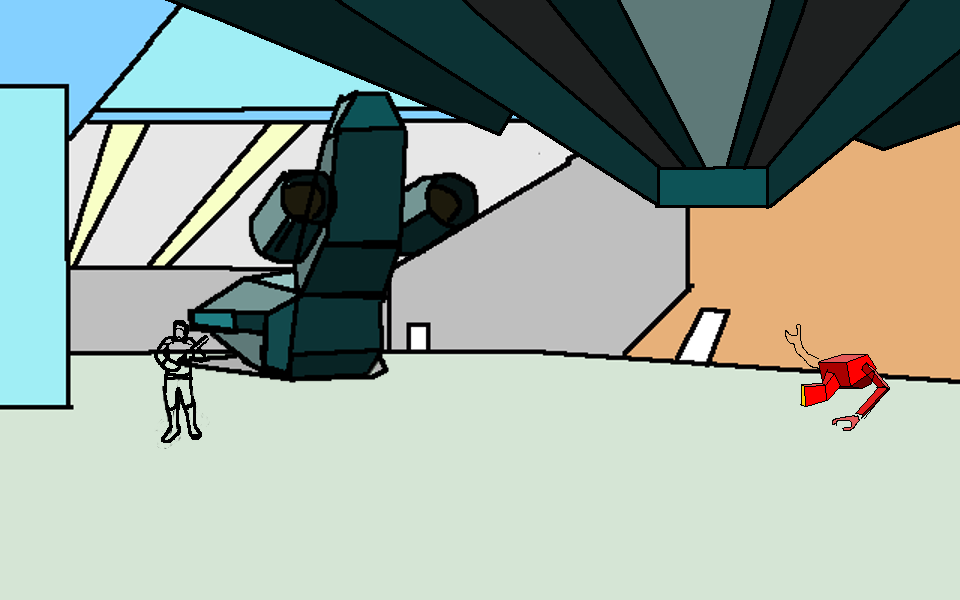
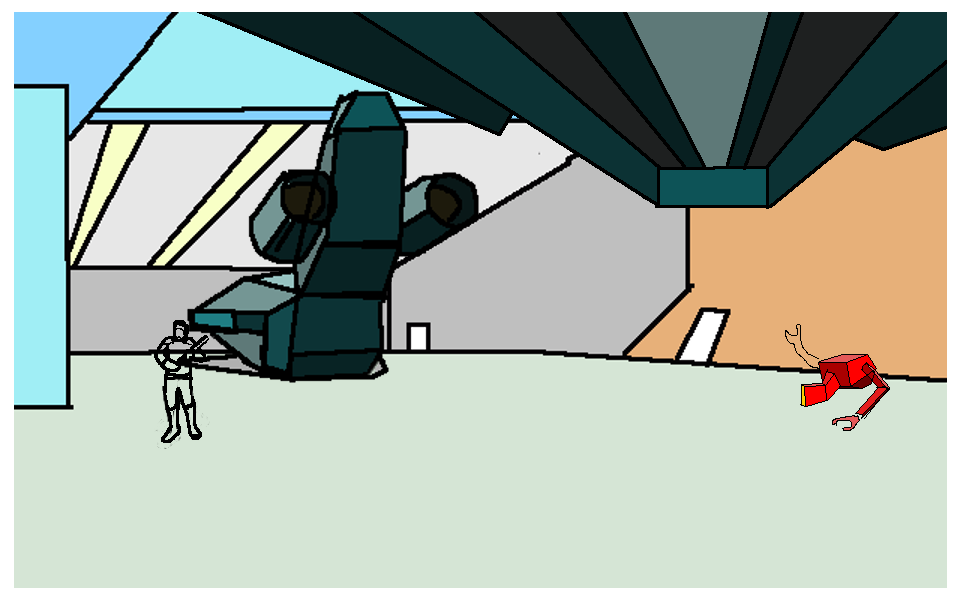
Added the possibility to exit from a scene

Changed region(s): [[0.0, 0.0, 1.0, 1.0]]

diff --git a/src/engine/link.js b/src/engine/link.js
@@ -1,24 +1,36 @@
 "use strict";
 
-function Link (position, sizes, scene) {
-  this.position = new Vector2(position.x, position.y);
-  this.sizes = new Vector2(sizes.x, sizes.y);
-  this.scene = scene;
-  this.observable = new Observable();
-  //this.onNotify = onNotify.bind(this);
-};
+class Link {
+  constructor(position, sizes, scene) {
+    this.position = new Vector2(position.x, position.y);
+    this.sizes = new Vector2(sizes.x, sizes.y);
+    this.scene = scene;
+    this.observable = new Observable();
+    //this.onNotify = onNotify.bind(this);
+  }
 
-Link.prototype.isInside = function (position) {
-  if (position.x >=  this.position.x &&
-      position.x <= this.position.x + this.sizes.x &&
-      position.y >=  this.position.y &&
-      position.y <= this.position.y + this.sizes.y) {
-        return true;
+  isInside(position) {
+    if (position.x >=  this.position.x &&
+        position.x <= this.position.x + this.sizes.x &&
+        position.y >=  this.position.y &&
+        position.y <= this.position.y + this.sizes.y) {
+          return true;
+      }
+      return false;
+  }
+
+  onNotify(subject, object) {
+    if (subject === "mouse-left-down") {
+      let cursorPosition = object.position;
+      if (this.isInside(cursorPosition)) {
+        console.log("change scene to: " + this.scene);
+        this.observable.notify("change-scene", this.scene);
+      }
     }
-    return false;
-};
+  }
+}
 
-Link.prototype.onNotify = function(subject, object) {
+/*function onNotify(subject, object) {
   if (subject === "mouse-left-down") {
     let cursorPosition = object.position;
     if (this.isInside(cursorPosition)) {
@@ -26,4 +38,4 @@ Link.prototype.onNotify = function(subject, object) {
       this.observable.notify("change-scene", this.scene);
     }
   }
-};
+}*/

diff --git a/src/main.js b/src/main.js
@@ -18,13 +18,13 @@ window.onload = function () {
 	HEIGHT = canvas.height;
 
 	engine = Object.create(Engine);
-	engine.update = update.bind(this);
-	engine.render = render.bind(this);
+	engine.update = update.bind(engine);
+	engine.render = render.bind(engine);
 
 	engine.init();
 
 	let sceneLoader = new SceneLoader();
-	sceneLoader.load(["data/spaceport.json", "data/spaceport-bathroom.json"])
+	sceneLoader.load(["data/spaceport.json", "data/spaceport-bathroom.json", "data/spaceport-bathroom-agent.json"])
 	sceneLoader.observable.register("scenes-all-loaded", this);
 
 	drawColoredRect(0, 0, WIDTH, HEIGHT, "black");
@@ -42,13 +42,18 @@ function render(deltaTime) {
   drawColoredRect(0, 0, WIDTH, HEIGHT, "black");
 
 	for (var index = 0; index < currentScenes.length; index++) {
-		drawImage(currentScenes[index].imageElement, 0, 0);
+		if (index === currentScenes.length - 1) {
+			drawColoredRect(0, 0,
+										WIDTH,	HEIGHT, "#000000B0");
+		}
+		drawImage(currentScenes[index].imageElement,
+							currentScenes[index].spawnPoint);
 	}
 
-	drawEmptyRect(currentScenes[0].links[0].position.x,
-								currentScenes[0].links[0].position.y,
-								currentScenes[0].links[0].sizes.x,
-								currentScenes[0].links[0].sizes.y, "blue");
+	for(let link of currentScenes[currentScenes.length - 1].links) {
+		drawEmptyRect(link.position.x,link.position.y,
+									link.sizes.x,	link.sizes.y, "blue");
+	}
 }
 
 function onNotify(subject, object){
@@ -65,6 +70,12 @@ function onNotify(subject, object){
 	}
 
 	if (subject === "change-scene") {
-		currentScenes.push(scenes.get(object));
+		let scene = object;
+		if (scene === "__pop__") {
+			currentScenes.pop();
+		}
+		else {
+			currentScenes.push(scenes.get(object));
+		}
 	}
 }

diff --git a/src/graphicsCommon.js b/src/graphicsCommon.js
@@ -18,8 +18,8 @@ function drawColoredCircle(x, y, radius, color) {
 	canvasContext.fill();
 }
 
-function drawImage(image, x, y) {
-	canvasContext.drawImage(image, x, y);
+function drawImage(image, position) {
+	canvasContext.drawImage(image, position.x, position.y);
 }
 
 function drawCenteredRotatedImage(image, x, y, angle) {

diff --git a/index.html b/index.html
@@ -16,10 +16,12 @@
 
 		<script src="src/engine/engine.js"></script>
 		<script src="src/main.js"></script>
+
+		<link rel="stylesheet" href="styles/style.css">
 	</head>
 
 	<body>
-		<canvas id="gameCanvas" width="800" height="600">
+		<canvas id="gameCanvas" width="960" height="600">
 		</canvas>
 	</body>
 </html>

diff --git a/styles/style.css b/styles/style.css
@@ -1,0 +1,3 @@
+body {
+  background-color: #000000;
+}
